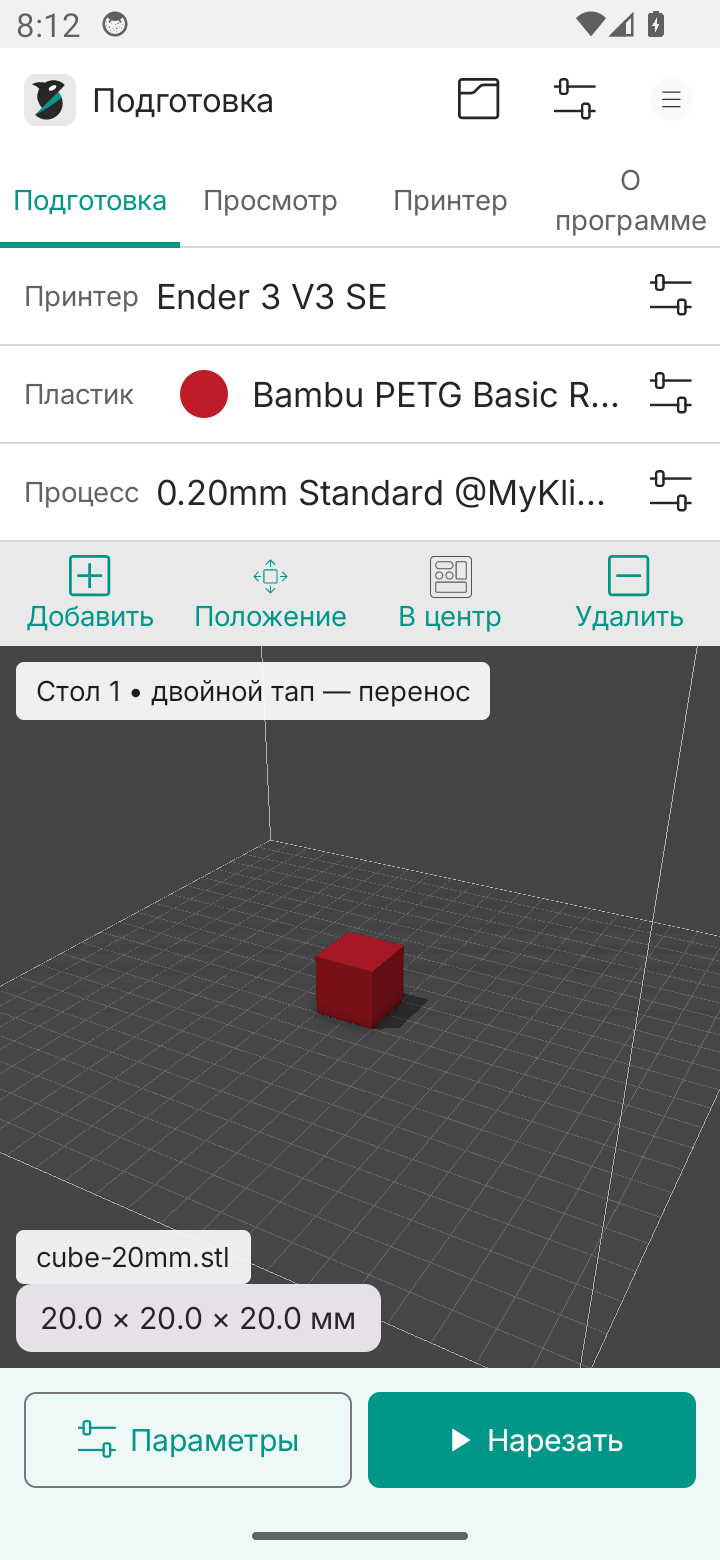
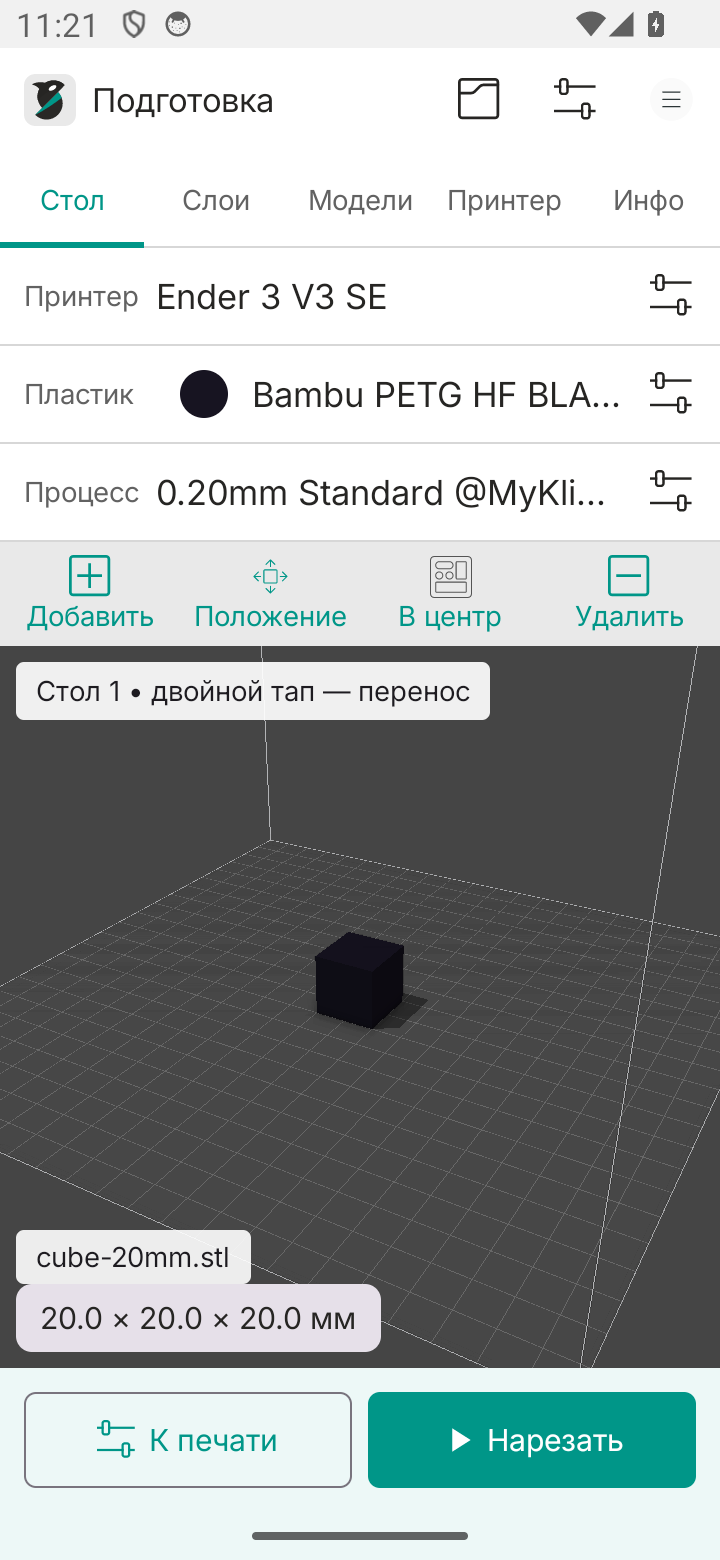
Document model links, cache, printer controls and signed releases

diff --git a/README.md b/README.md
@@ -10,7 +10,7 @@
 
 **Android 14+ · ARM64 · OpenGL ES 3**
 
-[Скачать тестовую сборку](https://github.com/redfaced97/OrcaSlicer-Android/actions/workflows/build.yml) · [Инструкция](docs/USAGE.md) · [Импорт профилей](docs/PROFILES.md) · [Сборка из исходников](docs/BUILDING.md)
+[Скачать APK из Releases](https://github.com/redfaced97/OrcaSlicer-Android/releases/latest) · [Инструкция](docs/USAGE.md) · [Импорт профилей](docs/PROFILES.md) · [Сборка из исходников](docs/BUILDING.md)
 
 ## Как выглядит
 
@@ -19,34 +19,43 @@
   <img src="docs/images/preview.png" width="240" alt="Предпросмотр: слои, типы линий, сохранение и загрузка G-code">
 </p>
 
+<p align="center">
+  <img src="docs/images/library.png" width="240" alt="Каталоги, поиск, теги и сохранённые карточки моделей">
+  <img src="docs/images/control.png" width="240" alt="Пульт Klipper и температурные графики на тестовом подключении">
+</p>
+
 ## Возможности
 
+- **Онлайн-модели:** Thingiverse, Printables, Cults3D и MakerWorld во встроенном браузере; карточки, поиск по запросу, тегам и ссылке, загрузка STL/ZIP/3MF. [Как пользоваться](docs/MODELS.md).
+- **Кэш:** 7 дней после последнего открытия, настраиваемый срок и ручная очистка; карточки сохраняются после удаления файлов.
 - **Подготовка модели:** перемещение на столе, поворот, масштаб, центрирование и проверка габаритов.
 - **Профили OrcaSlicer:** свои принтеры, процессы и пластики отдельно от штатных; импорт JSON и наборов профилей; сохранение собственных пресетов.
 - **Параметры печати:** 638 настроек с русскими подписями и подсказками, поиск, разделы, избранное и фильтр изменённых значений.
 - **Цвет пластика:** выбор цвета из палитры или по HEX, отображение цвета импортированного профиля.
 - **Нарезка на телефоне:** движок OrcaSlicer через JNI, обычные и древовидные поддержки, экспорт и отправка G-code через «Поделиться».
 - **Просмотр слоёв:** выбор слоя, фильтры типов линий и холостых перемещений. В открытом **Dev menu** доступны виды камеры, SSAO, тени, поверхности стола и разрешение сцены.
-- **Klipper / Moonraker:** загрузка G-code и встроенный Mainsail/Fluidd. Загрузка файла не запускает печать — её запуск остаётся в веб-интерфейсе принтера.
+- **Klipper / Moonraker:** несколько подключений, температуры всех обнаруженных нагревателей, графики за 10 минут, перемещение XYZ, Home, обдув, пауза/продолжение/отмена и аварийный STOP. Загрузка G-code и запуск печати — отдельные действия. Mainsail/Fluidd также доступен внутри приложения.
 - **Оформление:** светлая и тёмная темы, шрифт Inter с кириллицей, поддержка системного масштаба текста.
 
-Нарезка работает без интернета. Сеть нужна для подключения к принтеру.
+Нарезка работает без интернета. Сеть нужна для каталогов моделей и подключения к принтеру.
 
 ## Установка
 
-1. Откройте [GitHub Actions](https://github.com/redfaced97/OrcaSlicer-Android/actions/workflows/build.yml), выберите нужный запуск и дождитесь успешного завершения задания **build**.
-2. В блоке **Artifacts** скачайте `OrcaSlicer-Android-arm64-debug` и распакуйте ZIP.
-3. Перенесите `app-debug.apk` на телефон Android 14+ с ARM64 и установите его.
+1. Откройте [Releases](https://github.com/redfaced97/OrcaSlicer-Android/releases/latest).
+2. В **Assets** скачайте `OrcaSlicer-arm64-vVERSION.apk` и установите на телефон Android 14+ с ARM64.
+3. Для проверки файла рядом опубликован `SHA256SUMS`. Обновление устанавливается поверх предыдущего APK из Releases и локальных сборок этого проекта.
 
-Для обновления поверх установленного приложения нужна та же подпись. Сборки из Actions и APK, собранные локально, могут быть подписаны разными ключами; подробнее — в [инструкции сборки](docs/BUILDING.md#подпись-и-обновления). Перед сменой источника сборок экспортируйте свои профили.
+В Releases публикуется проверенный APK с постоянной подписью. Промежуточные сборки доступны в [GitHub Actions](https://github.com/redfaced97/OrcaSlicer-Android/actions/workflows/build.yml); они могут иметь другую подпись. Перед сменой источника APK экспортируйте свои профили. [Подпись и обновления](docs/BUILDING.md#подпись-и-обновления).
 
 ## Первый запуск
 
 1. Выберите принтер из штатного каталога или импортируйте свой JSON из OrcaSlicer.
 2. Выберите профиль процесса и пластика. Свои пресеты находятся в разделе **«Мои профили»**.
-3. На вкладке **«Подготовка»** нажмите **«Добавить»** и откройте STL. Проверьте положение модели и параметры.
+3. На вкладке **«Подготовка»** нажмите **«Добавить»** и откройте STL, 3MF или ZIP с моделями. Проверьте положение модели и параметры.
 4. Нажмите **«Нарезать»**, затем изучите слои во вкладке **«Просмотр»**.
-5. Сохраните G-code на телефон или настройте Moonraker во вкладке **«Принтер»** и нажмите **«Загрузить»**.
+5. Через **«К печати»** выберите принтер, свой пластик и процесс, при необходимости измените высоту слоя, заполнение и стенки. После нарезки нажмите **«На печать»**, подтвердите наличие филамента и загрузите G-code. Для запуска нажмите **«Начать печать»**.
+
+Модели с сайтов доступны на вкладке **«Модели»**. Вставьте ссылку прямо в поиск или выберите площадку. Кнопки **«На стол»** и **«К печати»** находятся в карточке скачанной модели.
 
 Цветовой кружок в строке пластика открывает палитру. Изменённые параметры можно сохранить отдельным профилем через **«Сохранить как»** в библиотеке.
 
@@ -76,7 +85,9 @@ python3 scripts/export-desktop-presets.py \
 
 ## Текущие ограничения
 
-Приложение работает с **одной STL-моделью, одним столом и одним материалом**. Пока нет импорта 3MF-проектов, STEP/OBJ, AMS, многоматериальной печати, покраски поддержек и швов, модификаторов и кисти переменной высоты слоя.
+Приложение работает с **одной моделью, одним столом и одним материалом**. 3MF импортируется как геометрия: объекты объединяются, настройки автора, AMS и распределение по столам не переносятся. STEP/OBJ, многоматериальная печать, покраска поддержек и швов, модификаторы и кисть переменной высоты слоя пока недоступны.
+
+Интеграции площадок используют их веб-страницы и доступные пользователю загрузки. Вход, оплата и ограничения скачивания определяются площадкой; для загрузок, недоступных WebView, предусмотрен импорт файла из браузера. Единого API поиска всех четырёх площадок нет в приложении.
 
 Доступность настройки в редакторе не добавляет отсутствующий рабочий процесс. Совпадение G-code с настольной OrcaSlicer для всех моделей не гарантируется. [Подробности совместимости](docs/COMPATIBILITY.md).
 

diff --git a/docs/USAGE.md b/docs/USAGE.md
@@ -4,11 +4,11 @@
 
 ## Подготовка
 
-1. «Подготовка» → «Добавить» → STL. Приложение пока работает с одной моделью на одном столе.
+1. «Подготовка» → «Добавить» → STL / 3MF / ZIP. Приложение пока работает с одной моделью на одном столе.
 2. Нажмите строку «Пластик» и выберите свой профиль. Нажмите цветовой кружок рядом с этой строкой, выберите цвет либо введите `RRGGBB`.
 3. Сделайте двойной тап **по модели**, на втором касании удерживайте палец и двигайте его: модель перемещается по XY, камера остаётся неподвижной. Масштаб камеры меняется щипком двумя пальцами. После отпускания координаты сохранятся. Если модель вне области печати, она подсвечивается красным и нарезка недоступна.
 4. «Положение» (на узком экране — «Правка») открывает повороты X/Y/Z, масштаб и координаты. «В центр» возвращает модель в центр стола.
-5. «Параметры» → поиск, например `retraction` или `откат`. Числа редактируются без JSON-скобок; несколько экструдеров сохраняют отдельные значения. «Все» показывает весь каталог, «Основные» — короткий набор.
+5. Значок параметров в верхней строке → поиск, например `retraction` или `откат`. Числа редактируются без JSON-скобок; несколько экструдеров сохраняют отдельные значения. «Все» показывает весь каталог, «Основные» — короткий набор.
 6. Чтобы сохранить изменения как отдельный профиль, откройте библиотеку профилей → выберите тип → «Сохранить как». Экспорт JSON доступен в параметрах.
 
 | Жест в 3D-окне | Действие |
@@ -24,12 +24,26 @@
 
 «Нарезать» → «Просмотр»: ползунок слоя, показ одного слоя, холостые перемещения и фильтры типов линий. Кнопка **Dev menu** расположена над сценой. Например, выберите «Сверху», поверхность «PEI», разрешение 75% и выключите «Цвета типов линий», чтобы видеть цвет выбранного пластика. SSAO использует реальные соседние отсчёты глубины; тени проецируются на стол. Это упрощённые эффекты, а не полный рендерер настольной Orca. Толщина линий ограничивается возможностями драйвера. Изменение графики не меняет G-code.
 
-## Загрузка на Klipper
+## Принтеры и пульт Klipper
 
-1. «Принтер» → значок настроек в верхней строке. Укажите Moonraker, например `http://printer.local:7125`, и отдельно Mainsail/Fluidd, например `http://printer.local`. При reverse proxy оба адреса могут совпадать. Если Moonraker требует авторизацию, добавьте API-ключ.
-2. «Проверить» показывает состояние Moonraker/Klipper. Круговая стрелка в верхней строке обновляет страницу и проверяет состояние; значок настроек переключает подключение и веб-интерфейс.
-3. После нарезки нажмите «Загрузить» в просмотре либо «Загрузить стол» на вкладке принтера. «Выбрать G-code» отправляет существующий файл с телефона.
-4. Файл загружается в `gcodes`, запрос содержит `print=false`. Приложение само не запускает печать. Запустить её, открыть макросы, консоль и камеру можно в установленном Mainsail/Fluidd внутри приложения.
+1. «Принтер» → «Принтеры» → «+ Добавить». Введите имя, адрес Moonraker (`http://printer.local:7125`), Mainsail/Fluidd (`http://printer.local`) и API-ключ, если нужен. Для reverse proxy оба адреса могут совпадать.
+2. Сохраните подключение. Переключатель над вкладками выбирает активный принтер; адрес и ключ у каждого свои. Можно связать подключение со своим профилем принтера.
+3. Во вкладке «Пульт» отображаются реальные датчики Klipper и история Moonraker за последние 10 минут. Цель показана пунктиром; нажатие имени датчика скрывает его линию. Статус обновляется раз в 3 секунды, история — раз в 15 секунд, только пока экран пульта открыт.
+4. Введите целевую температуру у сопла, стола или другого обнаруженного нагревателя и нажмите «Задать». Допустимый диапазон берётся из конфигурации Klipper; 0 выключает нагрев. Датчики без нагревателя доступны для просмотра.
+5. Выберите шаг 0,1 / 1 / 10 / 50 мм и используйте X±, Y±, Z±. Перемещение требует Home; во время печати и паузы оно отключено. Команда проверяет границы оси по свежей телеметрии. Home XYZ и отключение моторов доступны отдельно.
+6. Пульт также позволяет задать обдув, поставить печать на паузу, продолжить или отменить её. Красная кнопка **STOP** немедленно отправляет аварийную остановку Klipper.
+7. «Веб» открывает установленный на принтере Mainsail/Fluidd для камеры, макросов и остальных функций.
 
-Телефон и принтер должны быть доступны в одной сети. Статус Moonraker «подключён» не означает, что Klipper готов печатать: ошибки MCU показываются отдельно. Нарезка не зависит от сетевого подключения.
+## Подготовка и отправка на печать
 
+«К печати» на столе или в карточке модели открывает предпросмотр и выбор принтера, пластика и процесса. Свои профили показаны первыми. Высоту слоя, заполнение и число стенок можно изменить здесь; полный редактор доступен по кнопке «Все параметры печати».
+
+Рядом с пластиком указано: **(Удостоверьтесь что данный филамент загружен в принтер)**.
+
+После нарезки нажмите «На печать». Проверьте подключение и профили, подтвердите наличие филамента и свободного стола. «Загрузить G-code» отправляет файл с `print=false` — загрузка сама по себе печать не запускает. После успешной загрузки появляется отдельная кнопка **«Начать печать»**. «Файл G-code» позволяет загрузить уже подготовленный файл; он содержит собственные параметры печати.
+
+Изменение модели, параметров или выбранного принтера сбрасывает прежний результат нарезки: для новых настроек требуется новый G-code.
+
+Телефон и принтер должны быть доступны в одной сети. При недоступном Klipper пульт отключается; нарезка остаётся доступна. Для других прошивок пульт и графики Klipper не предоставляются.
+
+Онлайн-каталоги, поиск, ссылки и кэш описаны в [инструкции по моделям](MODELS.md).

diff --git a/docs/MODELS.md b/docs/MODELS.md
@@ -1,0 +1,62 @@
+# Каталоги, поиск и кэш моделей
+
+[← README](../README.md)
+
+## Поиск по запросу и тегам
+
+1. Откройте вкладку **«Модели»**.
+2. Введите запрос, например `phone holder`, и при необходимости теги через запятую: `phone, stand`.
+3. Нажмите карточку Thingiverse, Printables, Cults3D или MakerWorld. Откроется поиск выбранной площадки внутри приложения.
+4. Один тег без запроса открывает страницу тега на Thingiverse, Printables и Cults3D. MakerWorld использует поиск по слову. При сочетании запроса и нескольких тегов они передаются сайту как слова поиска; дополнительные фильтры доступны на самой площадке.
+
+В разделе **«Мои модели»** запрос ищется в названии, имени файла, источнике и тегах. Поле тегов требует совпадения всех указанных тегов целиком. Теги из страницы модели сохраняются, когда сайт предоставляет их в ссылках; кнопка **«Теги»** в карточке позволяет добавить или изменить их вручную. Быстрые фильтры показывают теги сохранённых карточек.
+
+## Поиск по ссылке
+
+Вставьте адрес модели прямо в поле поиска и нажмите **«Открыть ссылку»**. Поддерживаются страницы четырёх площадок, прямые HTTPS-ссылки на STL/ZIP/3MF и ссылки `orcaslicer://`. Ссылкой также можно поделиться в приложение через системное меню Android.
+
+Пример страницы:
+
+```text
+https://www.printables.com/model/3161-3d-benchy
+```
+
+Пример ссылки на файл:
+
+```text
+https://raw.githubusercontent.com/redfaced97/OrcaSlicer-Android/main/samples/cube-20mm.stl
+```
+
+Приложение регистрирует схему `orcaslicer://`. Форматы:
+
+```text
+orcaslicer://open?file=https%3A%2F%2Fexample.com%2Fcube.stl
+orcaslicer://open?url=https%3A%2F%2Fwww.printables.com%2Fmodel%2F3161
+```
+
+`file` — прямая HTTPS-загрузка; `url` — страница площадки. Необязательные `name` и `source` задают имя файла и страницу источника. Значения параметров кодируются как URL query. Ссылка открывает геометрию для подготовки, команды управления принтером в ней не выполняются. Кнопки «Открыть в PrusaSlicer / Bambu Studio» внутри встроенного браузера также распознаются, если передают HTTPS-адрес файла.
+
+## Загрузка и карточки
+
+На странице модели выберите STL, ZIP или 3MF. Обычная HTTPS-загрузка перехватывается приложением и сохраняется в кэш. Карточка содержит название, источник, доступное изображение, теги и кнопки **«На стол»**, **«К печати»**. Можно сохранить карточку до скачивания кнопкой **«В мои модели»**.
+
+- **На стол** — открыть геометрию для перемещения, поворота и масштаба.
+- **К печати** — открыть предпросмотр, выбор подключённого принтера и профилей принтера/пластика/процесса, быстрые настройки высоты слоя, заполнения и стенок.
+- В ZIP с несколькими моделями сначала выберите нужную деталь. Соседние инструкции, изображения и G-code не импортируются как модель.
+- 3MF импортируется как геометрия с единицами, компонентами и трансформациями. Все объекты объединяются; параметры автора, покраска, AMS и расположение по отдельным столам не переносятся. Используются ваши настройки печати.
+- Файл ограничен 96 МБ. Для 3MF дополнительно ограничены распакованный XML, число компонентов, глубина ссылок и количество треугольников.
+
+Вход в аккаунт, покупка и разрешение на скачивание остаются на стороне площадки. Если сайт не работает в WebView, требует внешний вход или создаёт внутреннюю `blob:`-загрузку, нажмите **«В браузере»**, скачайте файл обычным способом, затем откройте его кнопкой импорта в заголовке «Моделей» либо через «Добавить» на столе. Приложение не предоставляет единого серверного API этих площадок.
+
+<p align="center">
+  <img src="images/print-setup.png" width="240" alt="Предпросмотр и выбор профилей перед нарезкой">
+  <img src="images/cache.png" width="240" alt="Настройка срока хранения и очистка кэша">
+</p>
+
+## Кэш
+
+Вкладка **«Модели»** → значок настроек в заголовке → **«Кэш моделей»**.
+
+По умолчанию файлы хранятся **7 дней после последнего открытия**. Можно выбрать 1, 3, 7, 14, 30 дней или отключить автоматическое удаление. Очистка запускается при старте приложения, открытии библиотеки и ежедневно через Android JobScheduler; фоновый запуск может быть отложен системой.
+
+**«Очистить кэш»** удаляет скачанные файлы сразу. Карточки, теги и ссылки остаются; текущая модель на столе хранится отдельно и продолжает открываться. Для удалённого файла карточка снова предлагает скачивание или исходный локальный документ. Размер занятого кэша показан в библиотеке и настройках. Кнопка «Удалить» у карточки убирает и карточку, и её файл.

diff --git a/docs/COMPATIBILITY.md b/docs/COMPATIBILITY.md
@@ -10,9 +10,10 @@
 | Пользовательский Ender 3 V3 SE с Klipper | Можно импортировать отдельный JSON-профиль; имеется тест импорта Klipper с полем 220×220 |
 | Параметры профилей Orca 2.4.2 | Каталог доступен; параметры передаются в JSON движка |
 | Несколько материалов / AMS / несколько экструдеров | Данные массива сохраняются; нарезка использует один материал, native bridge фиксирует карту материала |
-| 3MF-проекты, несколько столов и объектов, STEP/OBJ | Не реализованы |
+| 3MF | Импорт геометрии, компонентов и трансформаций; несколько объектов объединяются в одну модель. Настройки проекта, AMS и раскладка по столам не импортируются |
+| Несколько управляемых объектов/столов, STEP/OBJ | Не реализованы |
 | Покраска поддержек/шва, модификаторы, переменная высота слоя кистью | Не реализованы |
-| Klipper / Moonraker | Загрузка G-code и встроенный веб-интерфейс; проверено на тестовом сервере |
+| Klipper / Moonraker | Несколько подключений, загрузка и отдельный запуск, температуры/графики, XYZ/Home, обдув и управление заданием; протокол проверяется на тестовом сервере |
 | Камера, макросы, управление Klipper | Возможности установленного на принтере Mainsail/Fluidd во встроенном WebView |
 | Облачные сервисы других производителей | Не реализованы |
 | Калибровочные мастера, сторонние плагины и внешние скрипты | Не реализованы |

diff --git a/docs/BUILDING.md b/docs/BUILDING.md
@@ -73,3 +73,16 @@ adb shell am instrument -w \
 ## Жесты
 
 `SceneGestureTest` отправляет события в настоящие Android GestureDetector и ScaleGestureDetector: длинный перенос после двойного тапа вверх/вниз не должен менять матрицу камеры; щипок двумя пальцами должен менять масштаб, обычный свайп — вращать камеру.
+
+## Публикация релиза
+
+В Releases отправляется уже собранный и проверенный APK с постоянной локальной подписью. Повторная сборка в Actions не меняет ключ установки. Бинарные файлы хранятся в отдельной ветке `release-artifacts`, исходники — в `main` и тегах релизов.
+
+После проверки APK, сохранения исходников в коммите и push основной ветки:
+
+```sh
+python3 scripts/publish-release.py 0.5.0 \
+  dist/OrcaSlicer-arm64-v0.5.0.apk SOURCE_COMMIT release-notes.md
+```
+
+Скрипт отправляет APK, его SHA-256, описание и точный коммит исходников в `release-artifacts` через SSH. Workflow `releases.yml` проверяет манифест и создаёт релиз с APK, `SHA256SUMS` и тегом на коммит исходников. GitHub добавляет архивы Source code автоматически. Уже опубликованные файлы не перезаписываются. Локальный GitHub API-токен не нужен: публикацию выполняет `GITHUB_TOKEN` Actions с `contents: write`. Ключ подписи не передаётся в GitHub.
